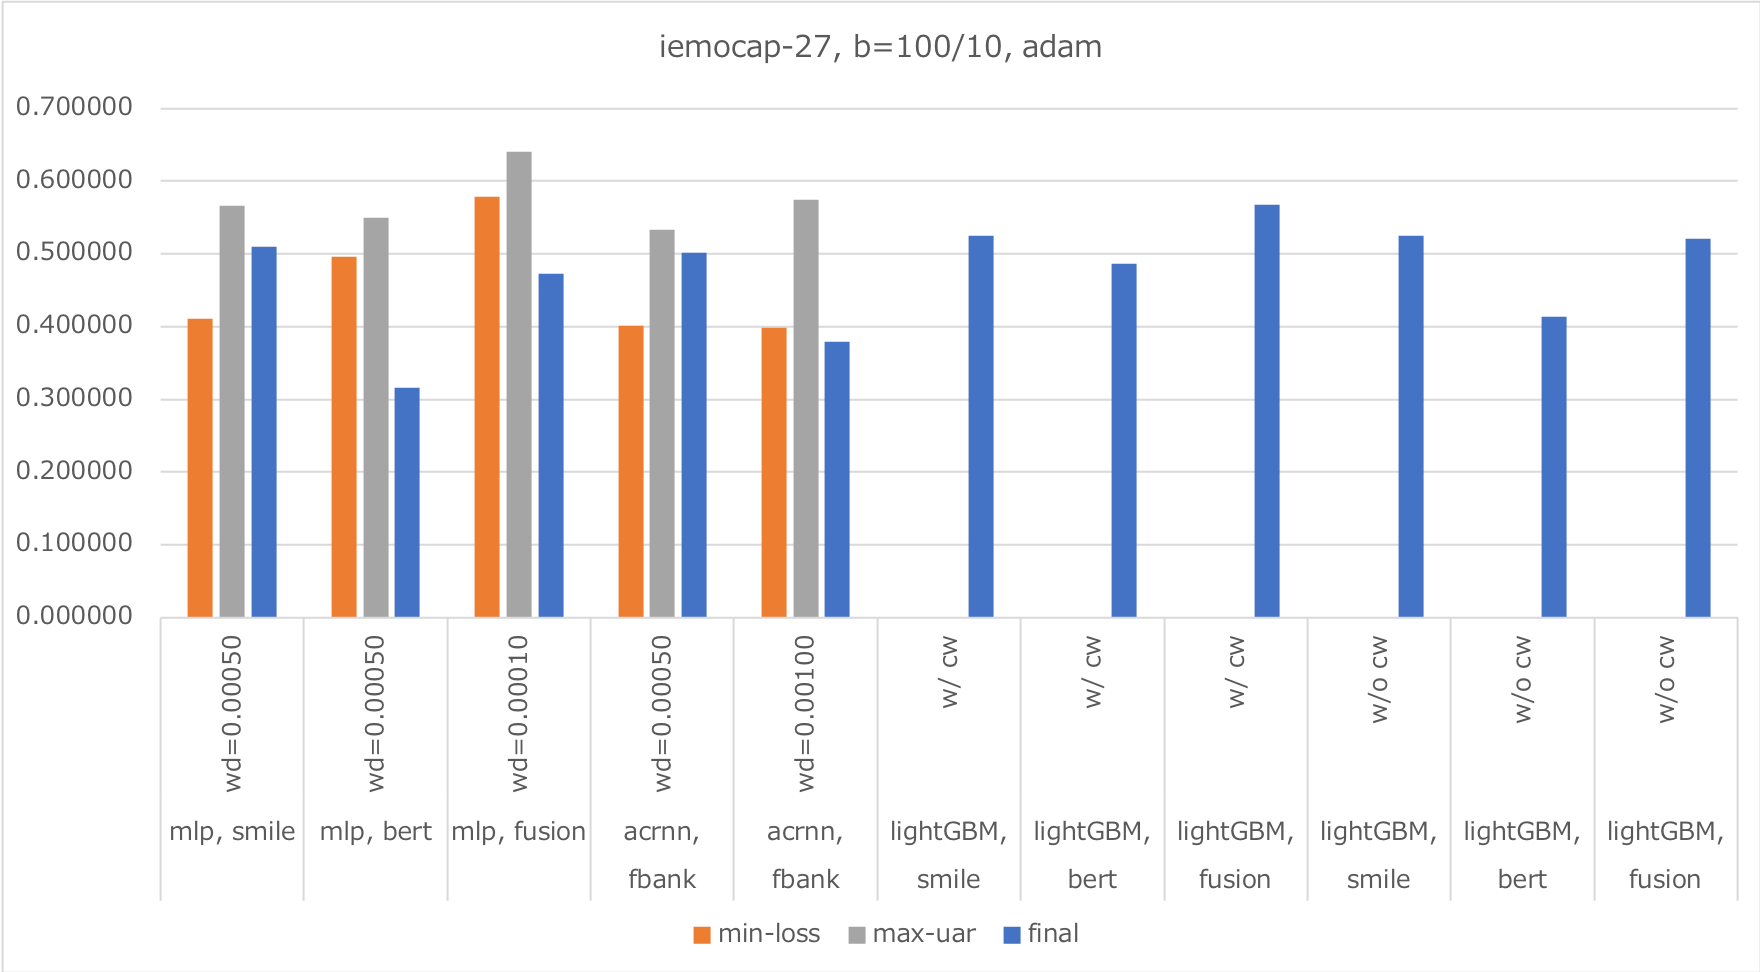
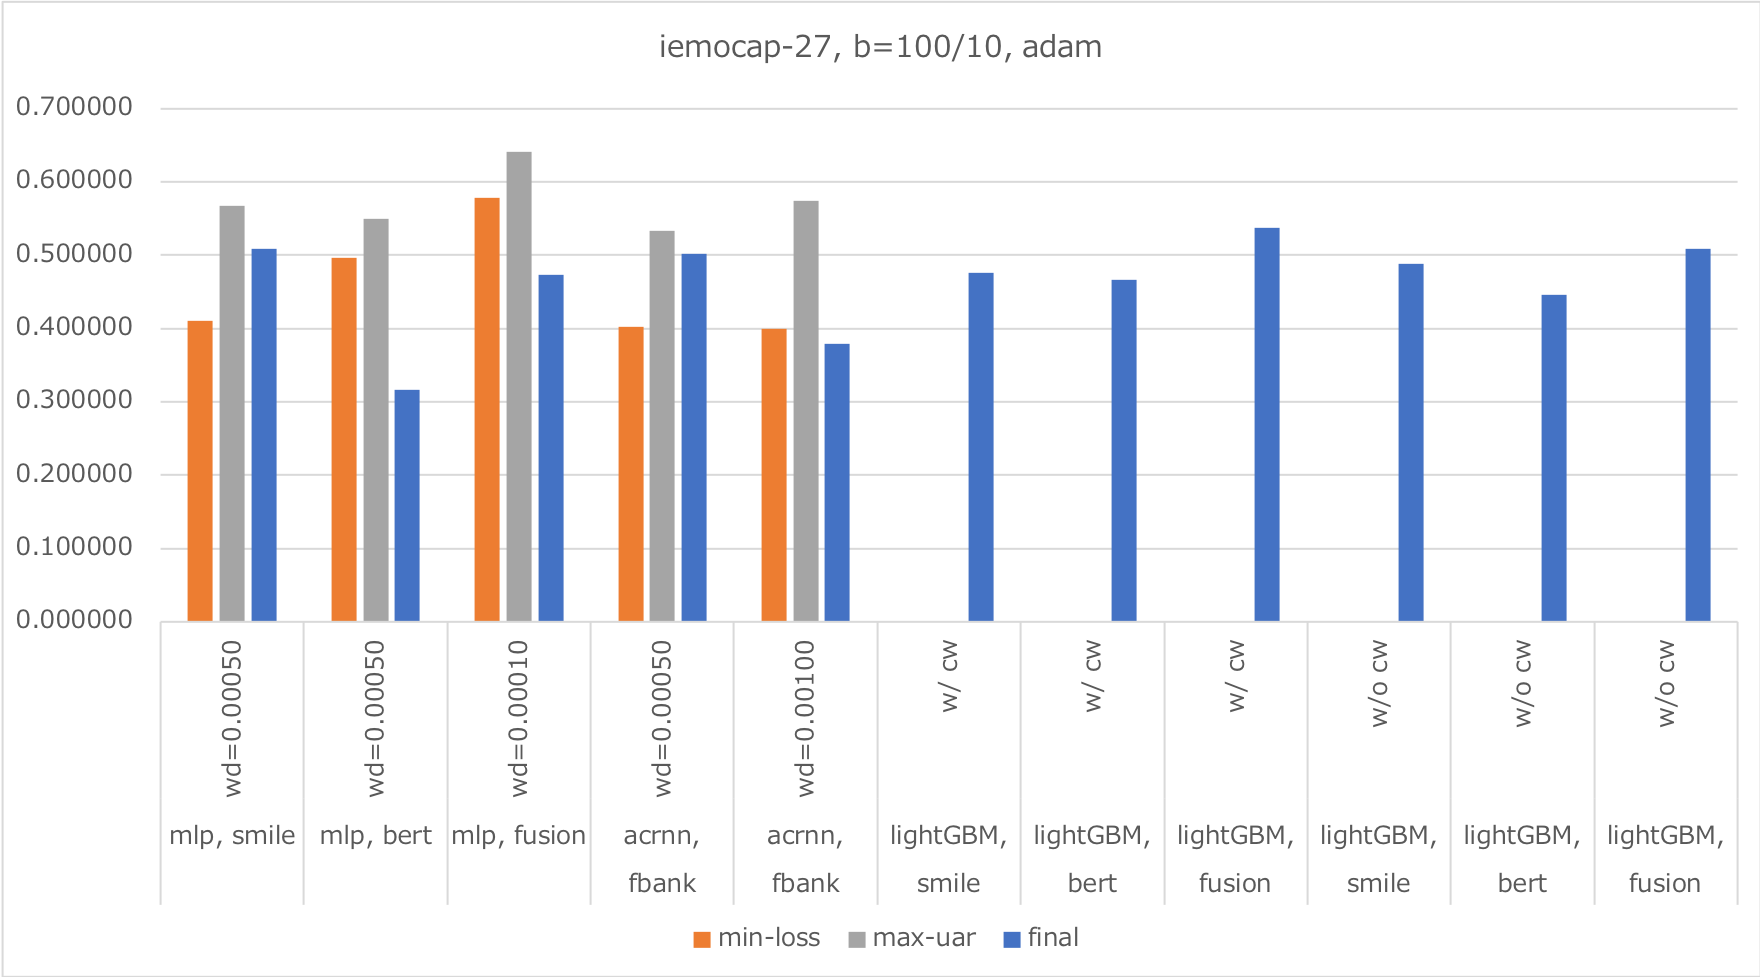
some updated

diff --git a/ser-fusion/train_lightgbm.py b/ser-fusion/train_lightgbm.py
@@ -32,7 +32,7 @@ import pickle
 import wave
 import python_speech_features as ps
 import bz2
-from sklearn.model_selection import ShuffleSplit
+from sklearn.model_selection import StratifiedKFold
 from sklearn.model_selection import GridSearchCV
 from sklearn.pipeline import Pipeline
 from sklearn.metrics import confusion_matrix, classification_report
@@ -121,20 +121,16 @@ def main():
     labels = {'neu': 0, 'ang': 1, 'sad': 2, 'hap': 3}
     # labels = {'MA_CH': 0, 'FE_AD': 1, 'MA_AD': 2, 'FE_EL': 3, 'FE_CH': 4, 'MA_EL': 5}
     X, Y, labels = load_train_data(args.train, labels=labels)
-
-    from sklearn.model_selection import train_test_split
-    X_train, X_eval, y_train, y_eval = train_test_split(X, Y, test_size=100, shuffle=True, stratify=Y, random_state=seed)
     n_class = len(labels)
 
-    print('# train X: {}, y: {}, dim: {}, counts: {}'.format(len(X_train), len(y_train), len(X_train[0]), [y_train.count(x) for x in sorted(labels.values())]))
-    print('# eval  X: {}, y: {}, dim: {}, counts: {}'.format(len(X_eval),  len(y_eval),  len(X_eval[0]),  [y_eval.count(x)  for x in sorted(labels.values())]))
+    print('# train X: {}, y: {}, dim: {}, counts: {}'.format(len(X), len(Y), len(X[0]), [Y.count(x) for x in sorted(labels.values())]))
     print('# class: {}, labels: {}'.format(n_class, labels))
 
     class_weight = None
     if args.cw:
         class_weight = {}
         for k, v in sorted(labels.items(), key=lambda x: x[1]):
-            class_weight[v] = len(y_train) / y_train.count(v)
+            class_weight[v] = len(Y) / Y.count(v)
     print('# class_weight: {}'.format(class_weight))
     print('')
 
@@ -146,17 +142,17 @@ def main():
     pipeline = Pipeline([('clf', classifier)])
 
     parameters = {
-        'clf__max_depth': [2, 4, 6],
+        'clf__max_depth': [-1, 5, 10, 20],
         'clf__n_estimators': [50, 100, 200],
     }
 
     print('# Tuning hyper-parameters for %s' % 'accuracy')
     print('')
 
-    cv = ShuffleSplit(n_splits=1, test_size=0.10, random_state=123)
+    cv = StratifiedKFold(n_splits=10, shuffle=True, random_state=123)
     clf = GridSearchCV(pipeline, param_grid=parameters, n_jobs=4, cv=cv, verbose=1, scoring='accuracy')
 
-    clf.fit(X_train, y_train)
+    clf.fit(X, Y)
     print('Best parameters set found on development set:')
     print('')
     print(clf.best_params_)
@@ -180,68 +176,14 @@ def main():
     print('')
     sys.stdout.flush()
 
-    index2label = {v: k for k, v in labels.items()}
-    sorted_labels = [k for k, _ in sorted(labels.items(), key=lambda x: x[1], reverse=False)]
-
-    y_true, y_pred = y_eval, clf.predict(X_eval)
-
-    print("\n==== Confusion matrix 1 (validating) ====\n")
-    cm = confusion_matrix([index2label[x] for x in y_true], [index2label[x] for x in y_pred], labels=sorted_labels)
-
-    print("\t{}".format("\t".join(sorted_labels)))
-    for label, counts in zip(sorted_labels, cm):
-        print("{}\t{}".format(label, "\t".join(map(str, counts))))
-
-    print("\n==== Confusion matrix 2 (validating) ====\n")
-    cm2 = np.apply_along_axis(lambda x: x / sum(x), 1, cm)
-    uar = np.nanmean(np.diag(cm2))
-
-    print("\t{}".format("\t".join(sorted_labels)))
-    for label, counts in zip(sorted_labels, cm2):
-        print("{}\t{}".format(label, "\t".join(map(lambda x: "%.2f" % x, counts))))
-
-    print("\nUAR = {:.6f}".format(float(uar)))
-    sys.stdout.flush()
-
-    # グラフ描画
-    if not args.noplot:
-        plt.figure()
-        plt.imshow(cm2, interpolation='nearest', cmap=plt.cm.Blues)
-        for i in range(cm2.shape[0]):
-            for j in range(cm2.shape[1]):
-                plt.text(j, i, "{:.2f}".format(cm2[i, j]), horizontalalignment="center", color="white" if cm2[i, j] > cm2.max() / 2 else "black")
-        plt.title('Confusion matrix: UAR = {:.6f}'.format(uar))
-        plt.colorbar()
-        tick_marks = np.arange(len(sorted_labels))
-        plt.xticks(tick_marks, sorted_labels, rotation=45)
-        plt.yticks(tick_marks, sorted_labels)
-        plt.tight_layout()
-        plt.ylabel('True label')
-        plt.xlabel('Predicted label')
-        plt.savefig('{}-cm-valid.png'.format(args.out))
-        # plt.savefig('{}-valid_cm.png'.format(os.path.splitext(os.path.basename(__file__))[0]))
-        # plt.show()
-        plt.close()
-
-    print("\n==== Classification report (validating) ====\n")
-    print(classification_report(
-        [sorted_labels[x] for x in y_true],
-        [sorted_labels[x] for x in y_pred]
-    ))
-    sys.stdout.flush()
-
-    print('')
-    sys.stdout.flush()
-
-    # すべての訓練データで fit
-    X = X_train + X_eval
-    y = y_train + y_eval
-
     clf = clf.best_estimator_
-    clf.fit(X, y)
+    clf.fit(X, Y)
 
     with open(os.path.join(args.out, 'model.pkl'), 'wb') as f:
         pickle.dump(clf, f)
+
+    with open(os.path.join(args.out, 'model.pkl'), 'rb') as f:
+        clf = pickle.load(f)
 
     # テストデータの読み込み
     X_test, y_test, labels = load_train_data(args.test, labels=labels)
@@ -250,6 +192,9 @@ def main():
     sys.stdout.flush()
 
     y_true, y_pred = y_test, clf.predict(X_test)
+
+    index2label = {v: k for k, v in labels.items()}
+    sorted_labels = [k for k, _ in sorted(labels.items(), key=lambda x: x[1], reverse=False)]
 
     print("\n==== Confusion matrix 1 (test) ====\n")
     cm = confusion_matrix([index2label[x] for x in y_true], [index2label[x] for x in y_pred], labels=sorted_labels)
